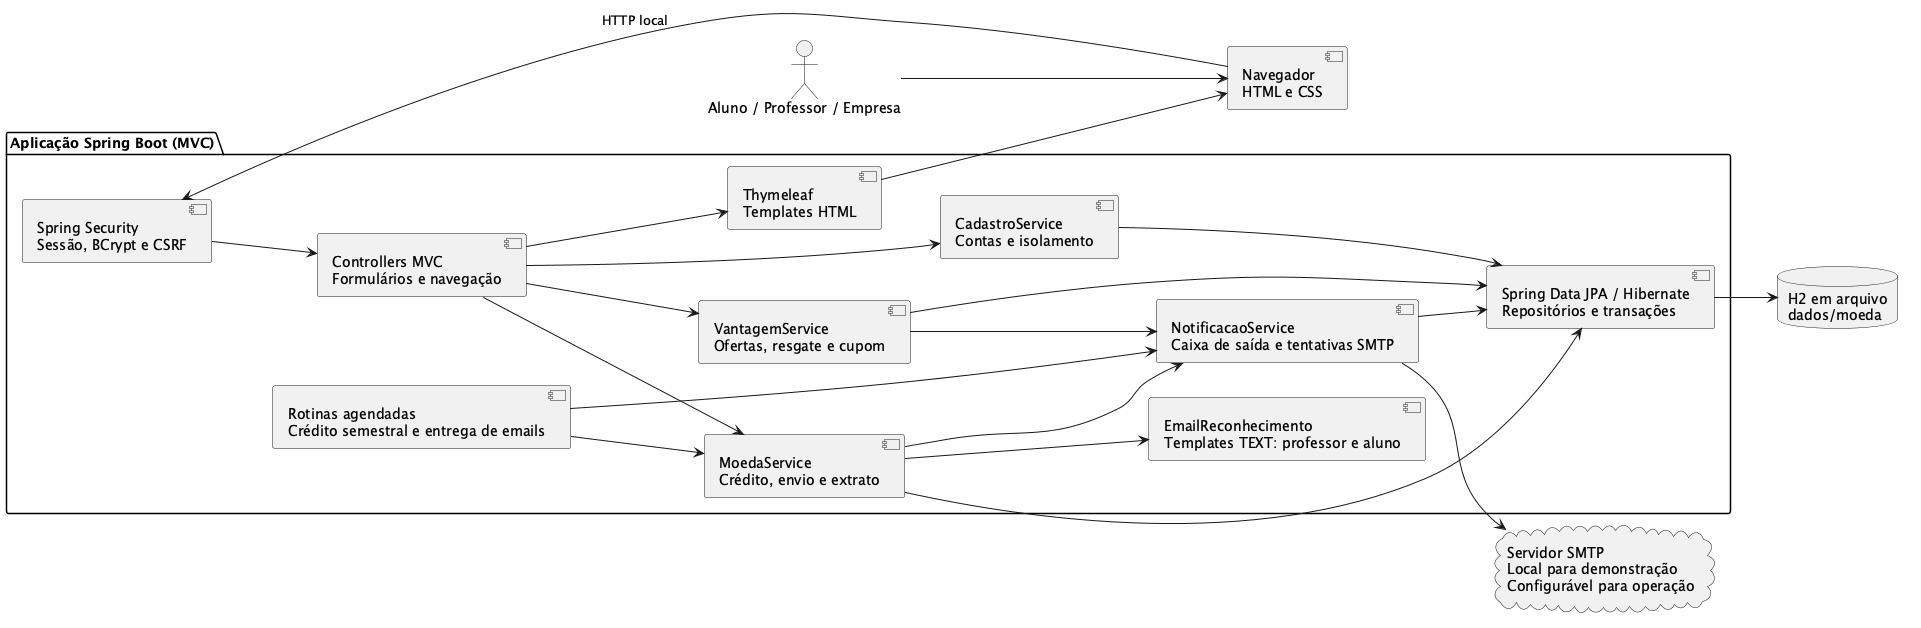
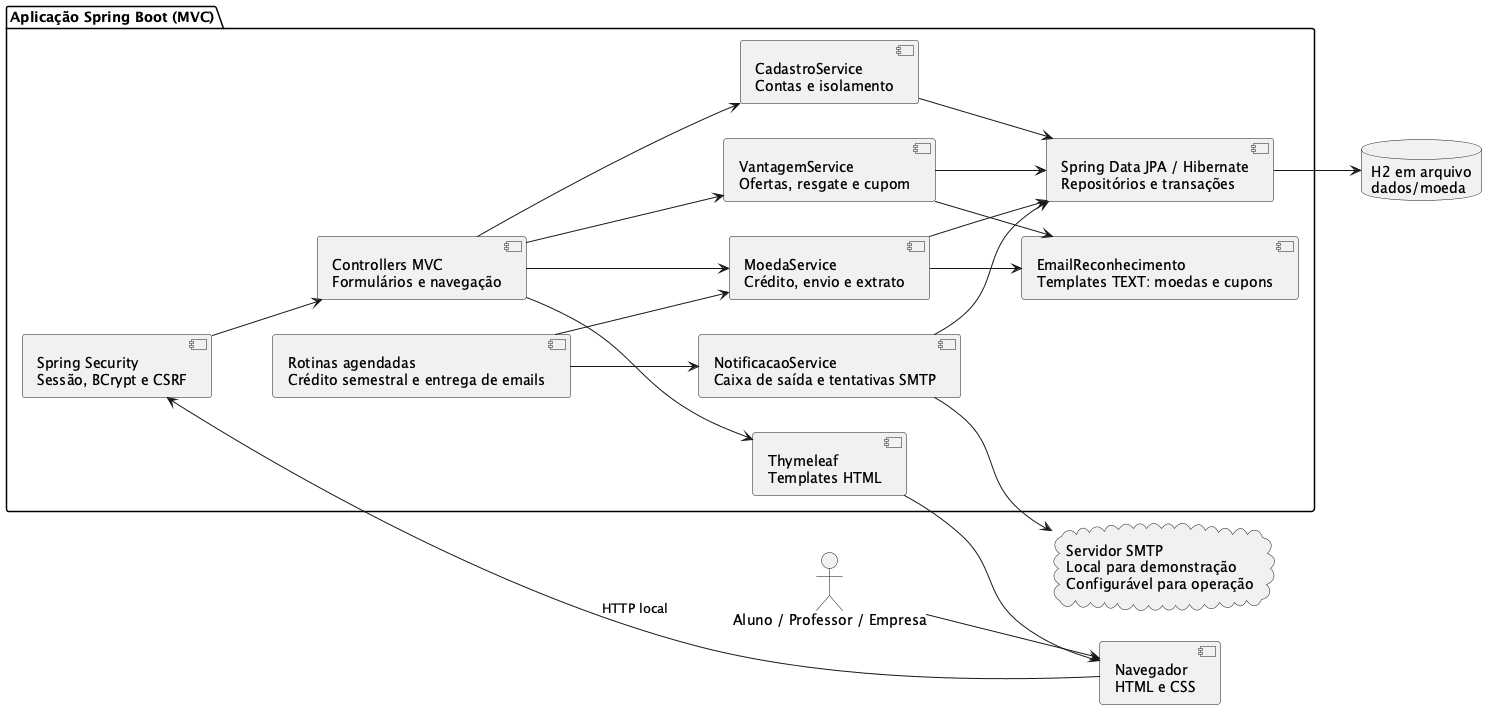
feat: separa os emails do resgate e confere a troca completa

diff --git a/src/test/java/br/edu/pucminas/moeda/TrocaSprint3MvcTest.java b/src/test/java/br/edu/pucminas/moeda/TrocaSprint3MvcTest.java
@@ -1,0 +1,84 @@
+package br.edu.pucminas.moeda;
+
+import org.junit.jupiter.api.Test;
+import org.springframework.mock.web.MockHttpSession;
+
+import static org.hamcrest.Matchers.containsString;
+import static org.junit.jupiter.api.Assertions.*;
+import static org.springframework.security.test.web.servlet.request.SecurityMockMvcRequestPostProcessors.csrf;
+import static org.springframework.security.test.web.servlet.response.SecurityMockMvcResultMatchers.authenticated;
+import static org.springframework.test.web.servlet.request.MockMvcRequestBuilders.*;
+import static org.springframework.test.web.servlet.result.MockMvcResultMatchers.*;
+
+class TrocaSprint3MvcTest extends BaseIntegracao {
+    @org.springframework.beans.factory.annotation.Autowired
+    br.edu.pucminas.moeda.servico.VantagemService beneficios;
+    private MockHttpSession entrar(String email) throws Exception {
+        return (MockHttpSession) mvc.perform(post("/entrar").with(csrf())
+                .param("username", email).param("password", "Senha123!"))
+            .andExpect(authenticated().withUsername(email))
+            .andReturn().getRequest().getSession(false);
+    }
+
+    @Test void alunoGanhaConsultaTrocaEEmpresaConfirmaMesmoCupom() throws Exception {
+        saldoProfessor(1000);
+        var vantagem = oferta(40);
+        mvc.perform(post("/moedas/enviar").session(entrar(professor.getEmail())).with(csrf())
+                .param("alunoId", ana.getId().toString()).param("quantidade", "120")
+                .param("motivo", "Colaboração na modelagem"))
+            .andExpect(redirectedUrl("/extrato"));
+        var aluno = entrar(ana.getEmail());
+        mvc.perform(get("/vantagens").session(aluno))
+            .andExpect(content().string(containsString("Desconto em livro")));
+        mvc.perform(post("/vantagens/{id}/resgatar", vantagem.getId()).session(aluno).with(csrf()))
+            .andExpect(redirectedUrl("/cupons"));
+        var troca = trocas.findAll().getFirst();
+        assertEquals(80, alunos.findById(ana.getId()).orElseThrow().getSaldo());
+        assertEquals(880, professores.findById(professor.getId()).orElseThrow().getSaldo());
+        mvc.perform(get("/cupons").session(aluno))
+            .andExpect(content().string(containsString(troca.getCodigo())));
+        mvc.perform(get("/extrato").session(aluno))
+            .andExpect(content().string(containsString("+120")))
+            .andExpect(content().string(containsString("−40")));
+        mvc.perform(get("/cupons").session(entrar(bruno.getEmail())))
+            .andExpect(content().string(org.hamcrest.Matchers.not(containsString(troca.getCodigo()))));
+        var mensagens = notificacoes.findAll().stream()
+            .filter(n -> n.getTexto().contains(troca.getCodigo())).toList();
+        assertEquals(2, mensagens.size());
+        var cupom = mensagens.stream().filter(n -> n.getDestinatario().equals(ana.getEmail())).findFirst().orElseThrow();
+        var confirmacao = mensagens.stream().filter(n -> n.getDestinatario().equals(parceiro.getEmail())).findFirst().orElseThrow();
+        assertTrue(cupom.getTexto().contains("Você trocou 40 moedas"));
+        assertTrue(confirmacao.getTexto().contains("Ana resgatou a vantagem"));
+        assertNotEquals(cupom.getTexto(), confirmacao.getTexto());
+        var empresa = entrar(parceiro.getEmail());
+        mvc.perform(post("/cupons/{codigo}/utilizar", troca.getCodigo()).session(empresa).with(csrf()))
+            .andExpect(redirectedUrl("/cupons"));
+        mvc.perform(post("/cupons/{codigo}/utilizar", troca.getCodigo()).session(empresa).with(csrf()))
+            .andExpect(flash().attribute("erro", "Este cupom já foi utilizado."));
+        assertNotNull(trocas.findById(troca.getId()).orElseThrow().getUtilizadaEm());
+        assertEquals(1, trocas.count());
+        assertEquals(4, notificacoes.count());
+    }
+
+    @Test void saldoInsuficienteMostraErroSemAlterarSaldoHistoricoOuEmails() throws Exception {
+        saldoAluno(30);
+        mvc.perform(post("/vantagens/{id}/resgatar", oferta(40).getId())
+                .session(entrar(ana.getEmail())).with(csrf()))
+            .andExpect(redirectedUrl("/vantagens"))
+            .andExpect(flash().attribute("erro", containsString("Saldo de moedas insuficiente")));
+        assertEquals(30, alunos.findById(ana.getId()).orElseThrow().getSaldo());
+        assertEquals(0, trocas.count());
+        assertEquals(0, notificacoes.count());
+    }
+
+    @Test void descricaoDoCupomPreservaAcentosEExpressoesLiterais() {
+        saldoAluno(100);
+        var vantagem = oferta(40);
+        vantagem.atualizar("Café <especial> & pão ${7*7}", 40, vantagem.getFoto(), vantagem.getFotoTipo());
+        vantagens.save(vantagem);
+        beneficios.resgatar(ana.getEmail(), vantagem.getId());
+        for (var mensagem : notificacoes.findAll()) {
+            assertTrue(mensagem.getTexto().contains("Café <especial> & pão ${7*7}"));
+        }
+    }
+}

diff --git a/src/main/java/br/edu/pucminas/moeda/servico/VantagemService.java b/src/main/java/br/edu/pucminas/moeda/servico/VantagemService.java
@@ -16,8 +16,9 @@ public class VantagemService {
     private final VantagemRepository vantagens;
     private final TrocaVantagemRepository trocas;
     private final NotificacaoRepository notificacoes;
-    public VantagemService(AcessoService acesso, VantagemRepository vantagens, TrocaVantagemRepository trocas, NotificacaoRepository notificacoes) {
-        this.acesso=acesso; this.vantagens=vantagens; this.trocas=trocas; this.notificacoes=notificacoes;
+    private final EmailReconhecimento emails;
+    public VantagemService(AcessoService acesso, VantagemRepository vantagens, TrocaVantagemRepository trocas, NotificacaoRepository notificacoes, EmailReconhecimento emails) {
+        this.acesso=acesso; this.vantagens=vantagens; this.trocas=trocas; this.notificacoes=notificacoes; this.emails=emails;
     }
     public Vantagem salvar(String email, Long id, VantagemForm form) {
         EmpresaParceira empresa=acesso.exigir(acesso.bloquear(email),EmpresaParceira.class);
@@ -62,9 +63,8 @@ public class VantagemService {
             .orElseThrow(() -> new IllegalArgumentException("Esta vantagem não está mais disponível."));
         aluno.debitar(vantagem.getCusto());
         TrocaVantagem troca=trocas.save(new TrocaVantagem(aluno,vantagem));
-        String texto="Cupom: "+troca.getCodigo()+"\nVantagem: "+troca.getDescricaoVantagem()+"\nCusto: "+troca.getQuantidade()+" moedas. Apresente o código na troca presencial.";
-        notificacoes.save(new Notificacao(troca,aluno.getEmail(),"Seu cupom de vantagem",texto));
-        notificacoes.save(new Notificacao(troca,vantagem.getEmpresa().getEmail(),"Cupom emitido para conferência",texto));
+        notificacoes.save(new Notificacao(troca,aluno.getEmail(),"Seu cupom de vantagem",emails.cupomAluno(troca)));
+        notificacoes.save(new Notificacao(troca,vantagem.getEmpresa().getEmail(),"Cupom emitido para conferência",emails.confirmacaoEmpresa(troca)));
         return troca;
     }
     public void utilizar(String email, String codigo) {

diff --git a/src/test/java/br/edu/pucminas/moeda/NotificacaoSmtpTest.java b/src/test/java/br/edu/pucminas/moeda/NotificacaoSmtpTest.java
@@ -58,6 +58,14 @@ class NotificacaoSmtpTest extends BaseIntegracao {
                 assertTrue(recebimento.getContent().toString().contains("Você recebeu 100 moedas de Professor"));
                 assertTrue(confirmacao.getContent().toString().contains("Participação"));
                 assertTrue(recebimento.getContent().toString().contains("Participação"));
+                var cupom=decodificadas.stream().filter(m->{try{return m.getSubject().equals("Seu cupom de vantagem");}catch(Exception e){throw new RuntimeException(e);}}).findFirst().orElseThrow();
+                var conferencia=decodificadas.stream().filter(m->{try{return m.getSubject().equals("Cupom emitido para conferência");}catch(Exception e){throw new RuntimeException(e);}}).findFirst().orElseThrow();
+                assertEquals(ana.getEmail(),((jakarta.mail.internet.InternetAddress)cupom.getAllRecipients()[0]).getAddress());
+                assertEquals(parceiro.getEmail(),((jakarta.mail.internet.InternetAddress)conferencia.getAllRecipients()[0]).getAddress());
+                assertTrue(cupom.getContent().toString().contains("Você trocou 20 moedas"));
+                assertTrue(conferencia.getContent().toString().contains("Ana resgatou a vantagem"));
+                assertTrue(cupom.getContent().toString().contains(troca.getCodigo()));
+                assertTrue(conferencia.getContent().toString().contains(troca.getCodigo()));
                 assertTrue(notificacoes.findAll().stream().allMatch(n->n.getEnviadaEm()!=null && n.getTentativas()==2));
                 entrega.entregarPendentes();assertEquals(4,notificacoes.count());
             } finally { pool.shutdownNow(); }

diff --git a/src/test/java/br/edu/pucminas/moeda/TrocaAtomicidadeTest.java b/src/test/java/br/edu/pucminas/moeda/TrocaAtomicidadeTest.java
@@ -1,0 +1,31 @@
+package br.edu.pucminas.moeda;
+
+import br.edu.pucminas.moeda.modelo.TrocaVantagem;
+import br.edu.pucminas.moeda.servico.EmailReconhecimento;
+import br.edu.pucminas.moeda.servico.VantagemService;
+import org.junit.jupiter.api.Test;
+import org.springframework.beans.factory.annotation.Autowired;
+import org.springframework.test.context.bean.override.mockito.MockitoSpyBean;
+
+import static org.junit.jupiter.api.Assertions.*;
+import static org.mockito.ArgumentMatchers.any;
+import static org.mockito.Mockito.doThrow;
+
+class TrocaAtomicidadeTest extends BaseIntegracao {
+    @Autowired VantagemService beneficios;
+    @MockitoSpyBean EmailReconhecimento emails;
+
+    @Test void falhaNoEmailDaEmpresaDesfazDebitoCupomEEmailDoAluno() {
+        saldoAluno(100);
+        var vantagem = oferta(40);
+        doThrow(new IllegalStateException("Falha simulada no template da empresa"))
+            .when(emails).confirmacaoEmpresa(any(TrocaVantagem.class));
+
+        assertThrows(IllegalStateException.class,
+            () -> beneficios.resgatar(ana.getEmail(), vantagem.getId()));
+
+        assertEquals(100, alunos.findById(ana.getId()).orElseThrow().getSaldo());
+        assertEquals(0, trocas.count());
+        assertEquals(0, notificacoes.count());
+    }
+}

diff --git a/src/main/java/br/edu/pucminas/moeda/servico/EmailReconhecimento.java b/src/main/java/br/edu/pucminas/moeda/servico/EmailReconhecimento.java
@@ -1,6 +1,7 @@
 package br.edu.pucminas.moeda.servico;
 
 import br.edu.pucminas.moeda.modelo.EnvioMoeda;
+import br.edu.pucminas.moeda.modelo.TrocaVantagem;
 import org.springframework.stereotype.Component;
 import org.thymeleaf.spring6.SpringTemplateEngine;
 import org.thymeleaf.context.Context;
@@ -31,6 +32,24 @@ public class EmailReconhecimento {
 
     public String recebimentoAluno(EnvioMoeda envio) {
         return renderizar("recebimento-aluno", envio);
+    }
+
+    public String cupomAluno(TrocaVantagem troca) {
+        return renderizarTroca("cupom-aluno", troca);
+    }
+
+    public String confirmacaoEmpresa(TrocaVantagem troca) {
+        return renderizarTroca("confirmacao-empresa", troca);
+    }
+
+    private String renderizarTroca(String template, TrocaVantagem troca) {
+        var contexto = new Context(Locale.forLanguageTag("pt-BR"), Map.of(
+            "aluno", troca.getAluno().getNome(),
+            "empresa", troca.getVantagem().getEmpresa().getNome(),
+            "codigo", troca.getCodigo(),
+            "descricao", troca.getDescricaoVantagem(),
+            "quantidade", troca.getQuantidade()));
+        return templates.process(template, contexto);
     }
 
     private String renderizar(String template, EnvioMoeda envio) {
